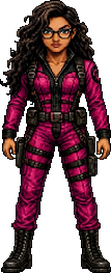
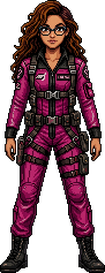
0906j: Lizzie and Falva rebuilt from their own authored pilot cards
Mike: "go look at falva and lizzies original pilot cards we have and re-generate avatar/actual
frames please."

HE WAS RIGHT, AND IT CORRECTS A DRIFT I INTRODUCED. card_lizzie and card_falva are full
authored pilot cards on pilots_0, 958x718 each, and the pcard_ variants carry a full STANDING
figure. Rendered before regenerating anything, they settle two things I had been guessing at:

  Lizzie on her own card is ALREADY the fair-skinned curvy mature woman Mike described. The
  correction he asked for in 0906i was never a change - it was a request to stop drifting from
  art that already existed. Her gold suit has a harness, belt, thigh straps and a BOMBSHELL name
  tape that none of my generated versions carried.

  Falva on her own card has AUBURN-BROWN curls, not the near-black hair my 0906i pass gave her.
  The "no gray or white hair" note was about a streak I had introduced; the fix was to go back to
  her card, not to darken her further.

So the lesson is the one this repo keeps writing down: I had a description from Mike and generated
toward it three times, drifting a little each pass, while a definitive authored reference sat in
the atlas under a key I never looked up. SEARCH FOR THE ART BEFORE GENERATING ART. pcard_* and
card_* are twenty keys covering all nine pilots and the locked slot.

LIZZIE'S BODY COMES FROM pcard_lizzie, NOT FROM HER HERO ILLUSTRATION. Her hero art is SEATED on
[…]

diff --git a/docs/PASSOVER_0906.md b/docs/PASSOVER_0906.md
@@ -593,3 +593,54 @@ Proofs: `docs/SHIPS_0906G.png`, `docs/PILOT_SELECT_0906G.png`, `docs/PILOT_AVATA
 - **Juggernaut's character still wears a small skull medallion** in his portrait and on his boots.
   Mike asked for no death symbol **on the ship**, which is done — the character's own motif was not
   in scope and has been left rather than assumed.
+
+---
+
+# 0906j — Lizzie and Falva, rebuilt from their own authored cards
+
+Mike: *"go look at falva and lizzies original pilot cards we have and re-generate avatar/actual
+frames please."*
+
+## He was right, and it corrects a drift I introduced
+
+`card_lizzie` and `card_falva` are full authored pilot cards on the `pilots_0` atlas, 958x718 each,
+with a large hero illustration and — on the `pcard_` variants — a **full standing figure**. Rendered
+before anything was regenerated, and they settle two things I had been guessing at:
+
+- **Lizzie on her own card is already the fair-skinned, curvy, mature woman Mike described.** The
+  correction he asked for in 0906i was never a change — it was a request to stop drifting from art
+  that already existed. Her gold suit has a harness, belt, thigh straps and a BOMBSHELL name tape
+  that none of my generated versions carried.
+- **Falva on her own card has auburn-brown curls**, not the near-black hair my 0906i regeneration
+  gave her. The "no gray or white hair" note was about a streak I introduced; the fix was to go
+  back to her card, not to darken her further.
+
+⚠ **SO THE LESSON IS THE ONE THIS FILE KEEPS WRITING DOWN.** I had a character description from
+Mike and generated toward it three times, drifting a little each pass, while a definitive authored
+reference sat in the atlas under a key I never looked up. **Search for the art before generating
+art.** `pcard_*` and `card_*` are twenty keys covering all nine pilots and a locked slot.
+
+## What was used, and why the source differs between the two
+
+- **Both avatars** are `edit_asset_id` on a head-and-shoulders crop of the authored card art, so the
+  likeness is theirs and the frame is described to match the other seven.
+- **Falva's body** comes from her card's hero figure (standing, arms crossed, leaning on her jet),
+  restaged to arms-at-sides with the aircraft and background deleted.
+- ⚠ **LIZZIE'S BODY COMES FROM `pcard_lizzie`, NOT FROM HER HERO ILLUSTRATION.** Her hero art is
+  SEATED on a bomb rack, and it is also the source that got refused twice by the content filter in
+  0906i. `pcard_lizzie` carries a **standing** full-length figure of her in the same suit, on a plain
+  dark grid — a better pose reference and a neutral enough plate that the edit went through first
+  time. Two problems solved by looking one key further along.
+
+## Landed
+
+`pav_lizzie`, `pav_falva`, `lizzie_body_0`, `falva_body_0` — all four rebuilt from the cards, then
+put through the same normaliser as the other seven (figure scaled to Yuri's authored 273px baseline)
+and the same box tinting (Lizzie 29 deg, Falva 333 deg, measured off their ships).
+
+Proofs: `docs/ORIGINAL_CARDS_LF.png` (the authored cards as found), `docs/CARDCUTS_LF.png` (the
+crops used as sources), `docs/CARDBASED_LF_0906J.png` (before/after on all four),
+`docs/PILOT_CARDS_LF_0906J.png` (both finished screens).
+
+**Not changed:** their `port_*` emotion cells. Those are a separate set and neither shows on the
+pilot screen; the card-derived look now differs slightly from them, which is worth a pass of its own.
